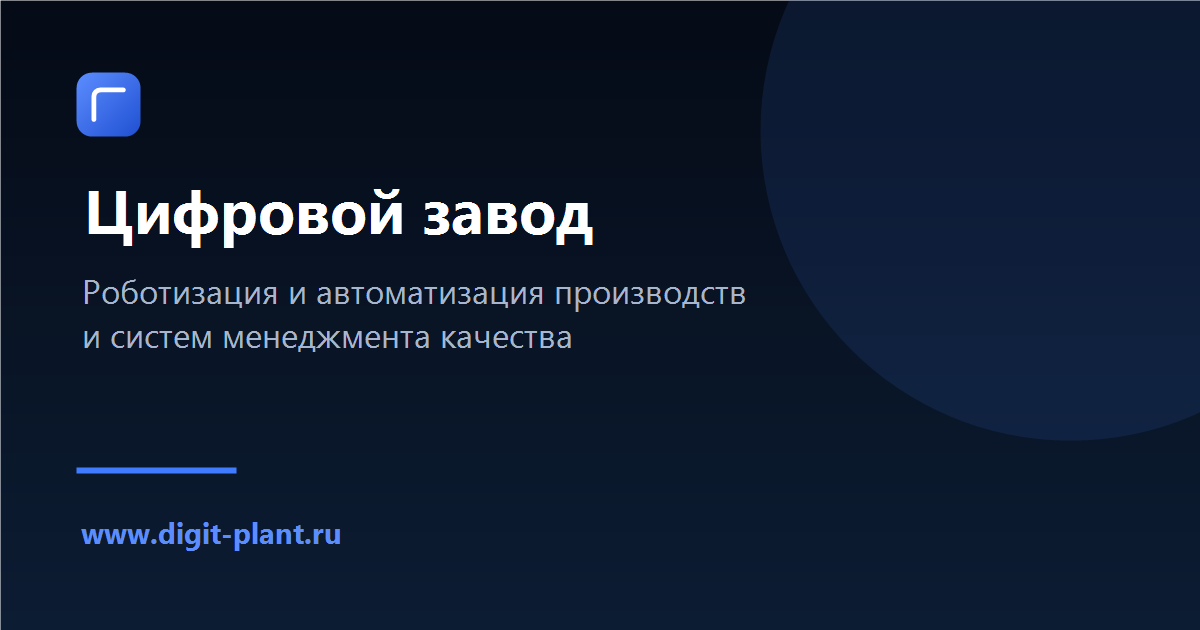
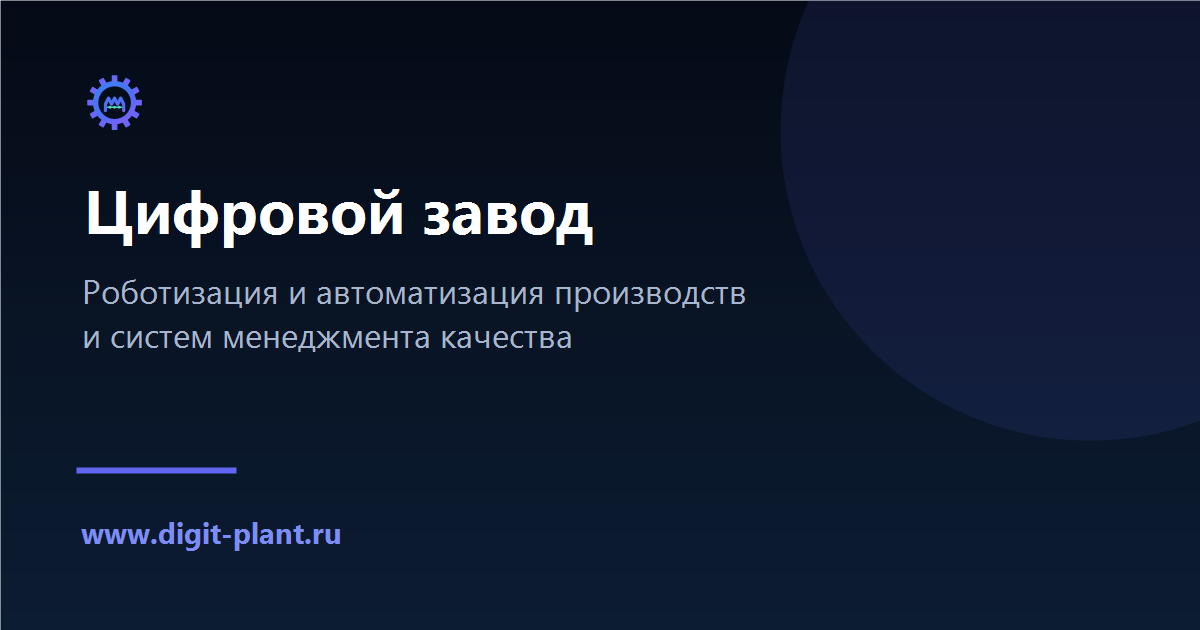
Новый логотип: шестерёнка с заводом в шапке, фавиконе и обложке

diff --git a/index.html b/index.html
@@ -31,7 +31,7 @@
 
 <header class="site-header">
   <div class="wrap header-inner">
-    <a class="brand" href="index.html"><span class="brand-mark" aria-hidden="true"></span>Цифровой завод</a>
+    <a class="brand" href="index.html"><img class="brand-logo" src="assets/logo.svg" width="30" height="30" alt="">Цифровой завод</a>
     <button class="nav-toggle" type="button" aria-expanded="false" aria-controls="main-nav">Меню</button>
     <nav class="main-nav" id="main-nav" aria-label="Основная навигация">
       <a href="index.html" aria-current="page">Главная</a>

diff --git a/404.html b/404.html
@@ -17,7 +17,7 @@
 
 <header class="site-header">
   <div class="wrap header-inner">
-    <a class="brand" href="index.html"><span class="brand-mark" aria-hidden="true"></span>Цифровой завод</a>
+    <a class="brand" href="index.html"><img class="brand-logo" src="assets/logo.svg" width="30" height="30" alt="">Цифровой завод</a>
     <button class="nav-toggle" type="button" aria-expanded="false" aria-controls="main-nav">Меню</button>
     <nav class="main-nav" id="main-nav" aria-label="Основная навигация">
       <a href="index.html">Главная</a>

diff --git a/contacts.html b/contacts.html
@@ -31,7 +31,7 @@
 
 <header class="site-header">
   <div class="wrap header-inner">
-    <a class="brand" href="index.html"><span class="brand-mark" aria-hidden="true"></span>Цифровой завод</a>
+    <a class="brand" href="index.html"><img class="brand-logo" src="assets/logo.svg" width="30" height="30" alt="">Цифровой завод</a>
     <button class="nav-toggle" type="button" aria-expanded="false" aria-controls="main-nav">Меню</button>
     <nav class="main-nav" id="main-nav" aria-label="Основная навигация">
       <a href="index.html">Главная</a>

diff --git a/robotization.html b/robotization.html
@@ -31,7 +31,7 @@
 
 <header class="site-header">
   <div class="wrap header-inner">
-    <a class="brand" href="index.html"><span class="brand-mark" aria-hidden="true"></span>Цифровой завод</a>
+    <a class="brand" href="index.html"><img class="brand-logo" src="assets/logo.svg" width="30" height="30" alt="">Цифровой завод</a>
     <button class="nav-toggle" type="button" aria-expanded="false" aria-controls="main-nav">Меню</button>
     <nav class="main-nav" id="main-nav" aria-label="Основная навигация">
       <a href="index.html">Главная</a>

diff --git a/services.html b/services.html
@@ -31,7 +31,7 @@
 
 <header class="site-header">
   <div class="wrap header-inner">
-    <a class="brand" href="index.html"><span class="brand-mark" aria-hidden="true"></span>Цифровой завод</a>
+    <a class="brand" href="index.html"><img class="brand-logo" src="assets/logo.svg" width="30" height="30" alt="">Цифровой завод</a>
     <button class="nav-toggle" type="button" aria-expanded="false" aria-controls="main-nav">Меню</button>
     <nav class="main-nav" id="main-nav" aria-label="Основная навигация">
       <a href="index.html">Главная</a>

diff --git a/smk.html b/smk.html
@@ -31,7 +31,7 @@
 
 <header class="site-header">
   <div class="wrap header-inner">
-    <a class="brand" href="index.html"><span class="brand-mark" aria-hidden="true"></span>Цифровой завод</a>
+    <a class="brand" href="index.html"><img class="brand-logo" src="assets/logo.svg" width="30" height="30" alt="">Цифровой завод</a>
     <button class="nav-toggle" type="button" aria-expanded="false" aria-controls="main-nav">Меню</button>
     <nav class="main-nav" id="main-nav" aria-label="Основная навигация">
       <a href="index.html">Главная</a>

diff --git a/assets/styles.css b/assets/styles.css
@@ -87,6 +87,8 @@ a:hover { color: #fff; }
   white-space: nowrap;
 }
 
+.brand-logo { width: 30px; height: 30px; flex: 0 0 auto; display: block; }
+
 .brand-mark {
   width: 26px;
   height: 26px;
